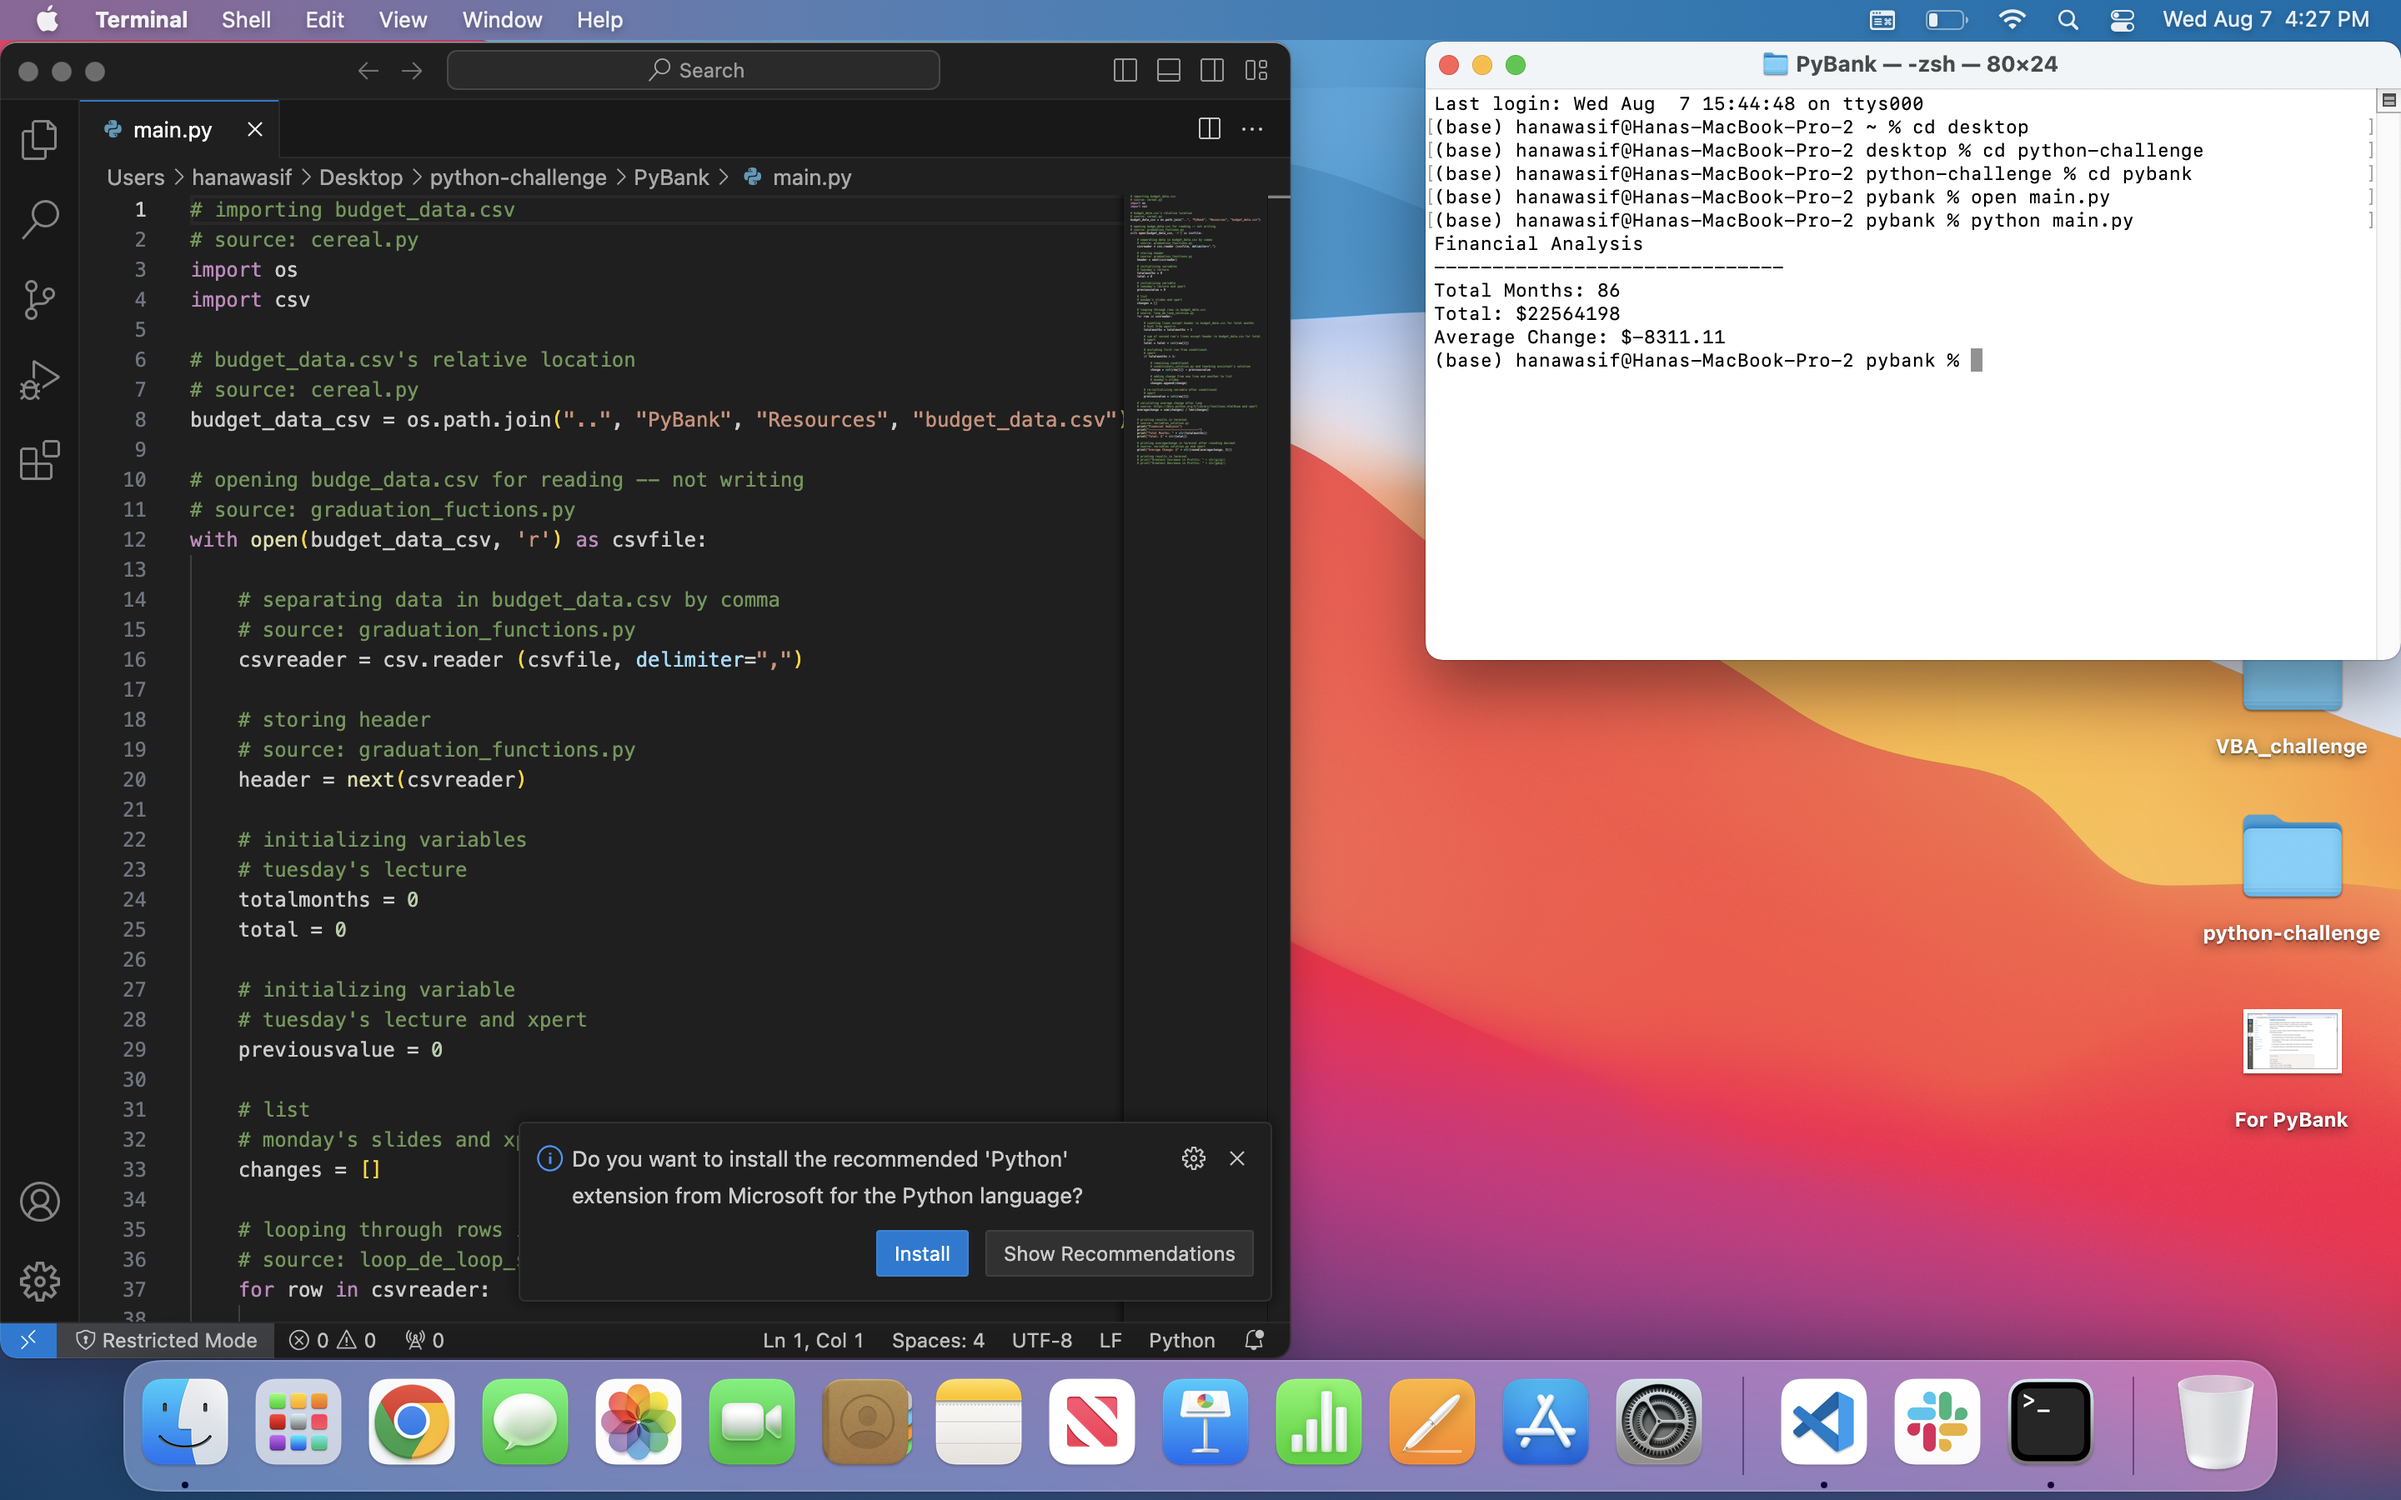
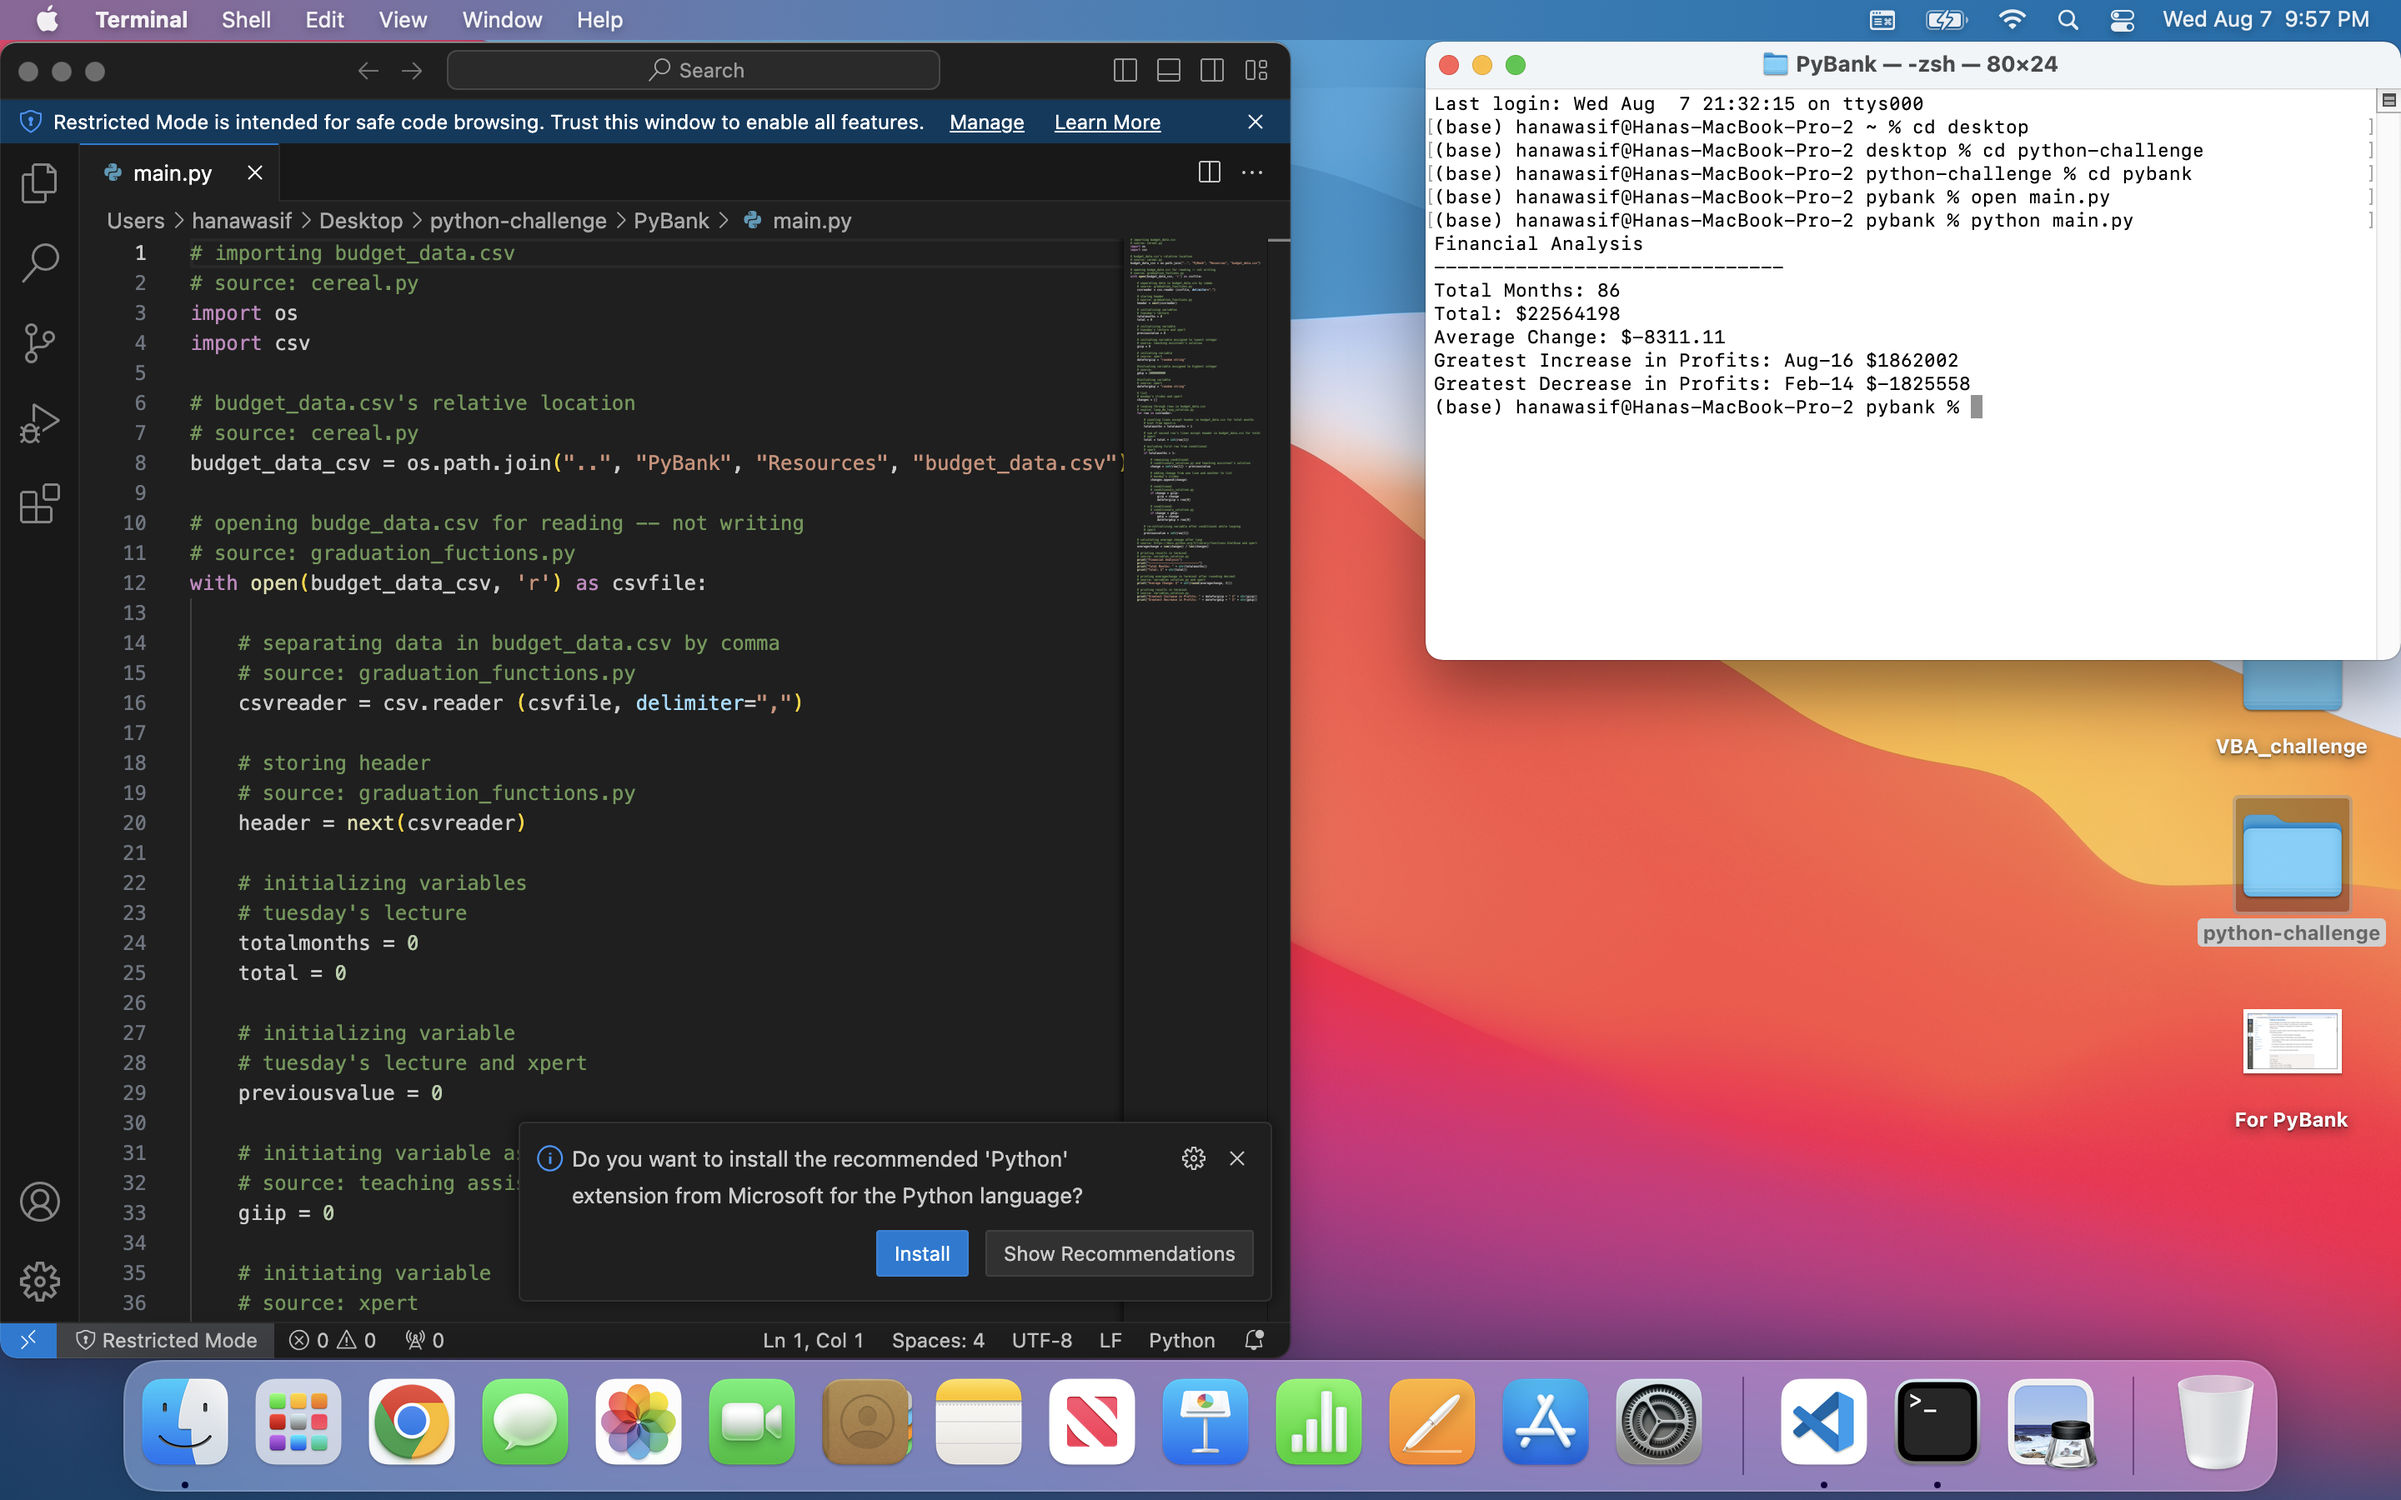
pybank's remaining steps

diff --git a/PyBank/main.py b/PyBank/main.py
@@ -28,6 +28,22 @@ with open(budget_data_csv, 'r') as csvfile:
     # tuesday's lecture and xpert
     previousvalue = 0
 
+    # initiating variable assigned to lowest integer
+    # source: teaching assistant's solution
+    giip = 0
+
+    # initiating variable
+    # source: xpert
+    dateforgiip = "random string"
+
+    #initiating variable assigned to highest integer
+    # source: 
+    gdip = 1000000000
+
+    #initiating variable
+    # source: xpert
+    dateforgdip = "random string"
+
     # list
     # monday's slides and xpert
     changes = []
@@ -56,14 +72,25 @@ with open(budget_data_csv, 'r') as csvfile:
             # monday's slides
             changes.append(change)
 
-        # re-initializing variable after conditional
+            # conditional
+            # conditionals_solution.py
+            if change > giip:
+                giip = change
+                dateforgiip = row[0]
+            
+            # conditional
+            # conditionals_solution.py
+            if change < gdip:
+                gdip = change
+                dateforgdip = row[0]
+
+        # re-initializing variable after conditional while looping
         # xpert
         previousvalue = int(row[1])
         
     # calculating average change after loop
     # source: https://docs.python.org/3/library/functions.html#sum and xpert
     averagechange = sum(changes) / len(changes)
-
 
     # printing results in terminal
     # source: variables_solution.py
@@ -77,5 +104,6 @@ with open(budget_data_csv, 'r') as csvfile:
     print("Average Change: $" + str(round(averagechange, 2)))
 
     # printing results in terminal
-    # print("Greatest Increase in Profits: " + str(giip))
-    # print("Greatest Decrease in Profits: " + str(gdip))
+    # source: variables_solution.py
+    print("Greatest Increase in Profits: " + dateforgiip + " $" + str(giip))
+    print("Greatest Decrease in Profits: " + dateforgdip + " $" + str(gdip))
